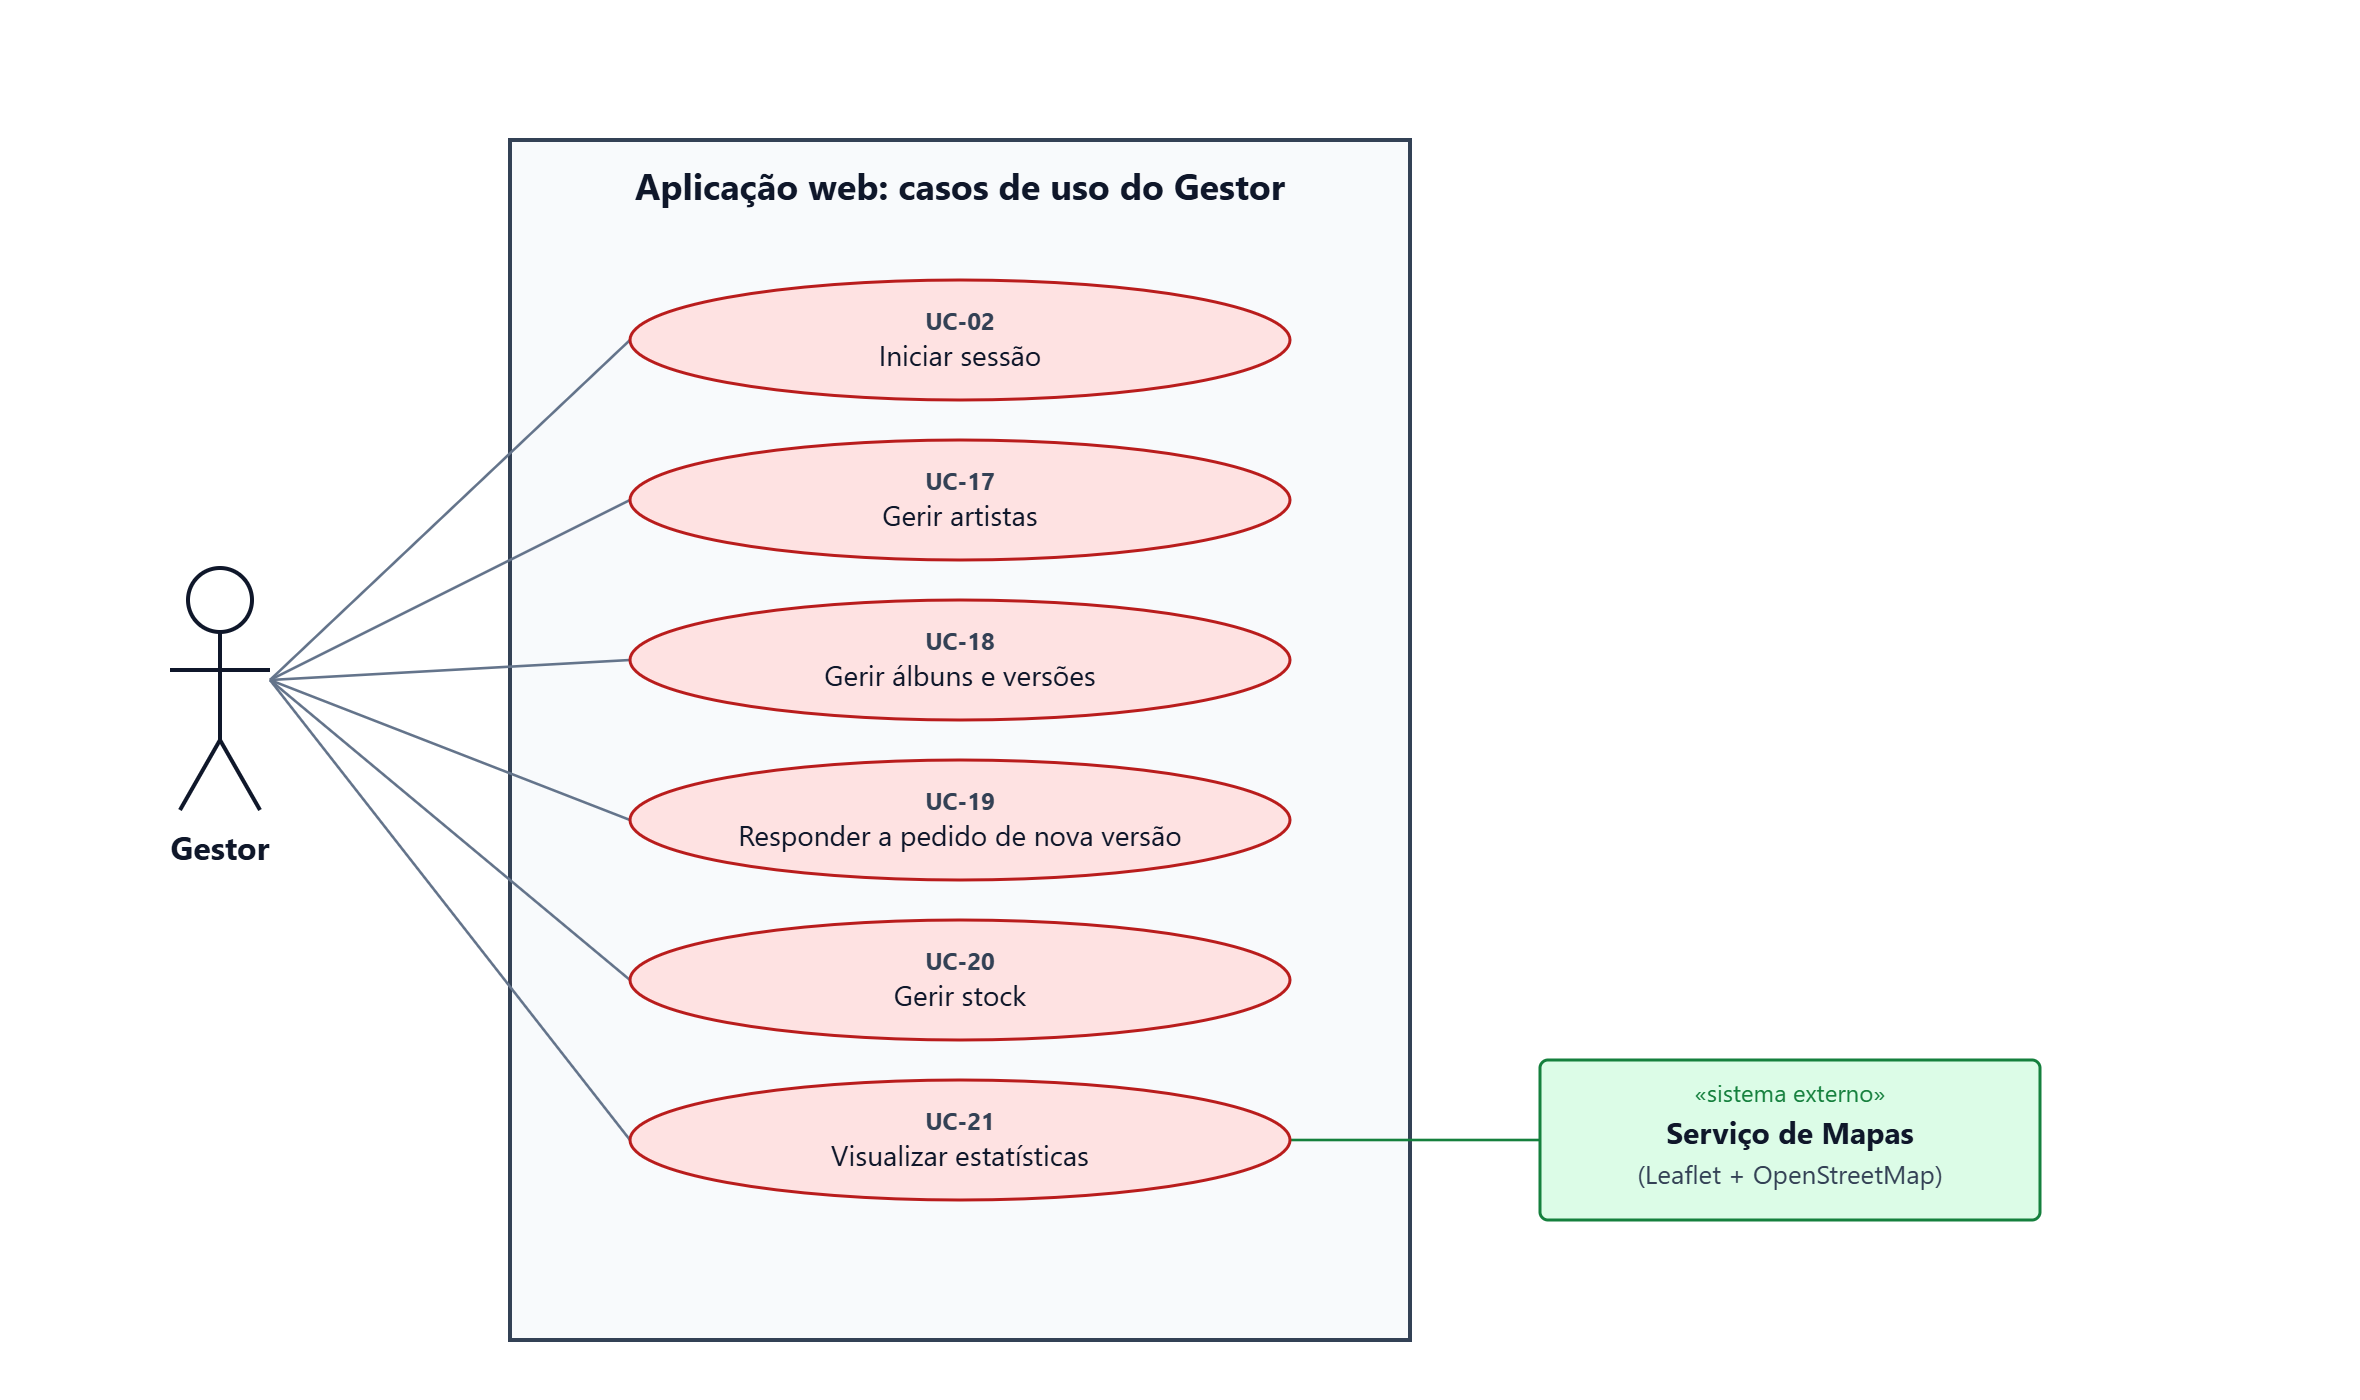
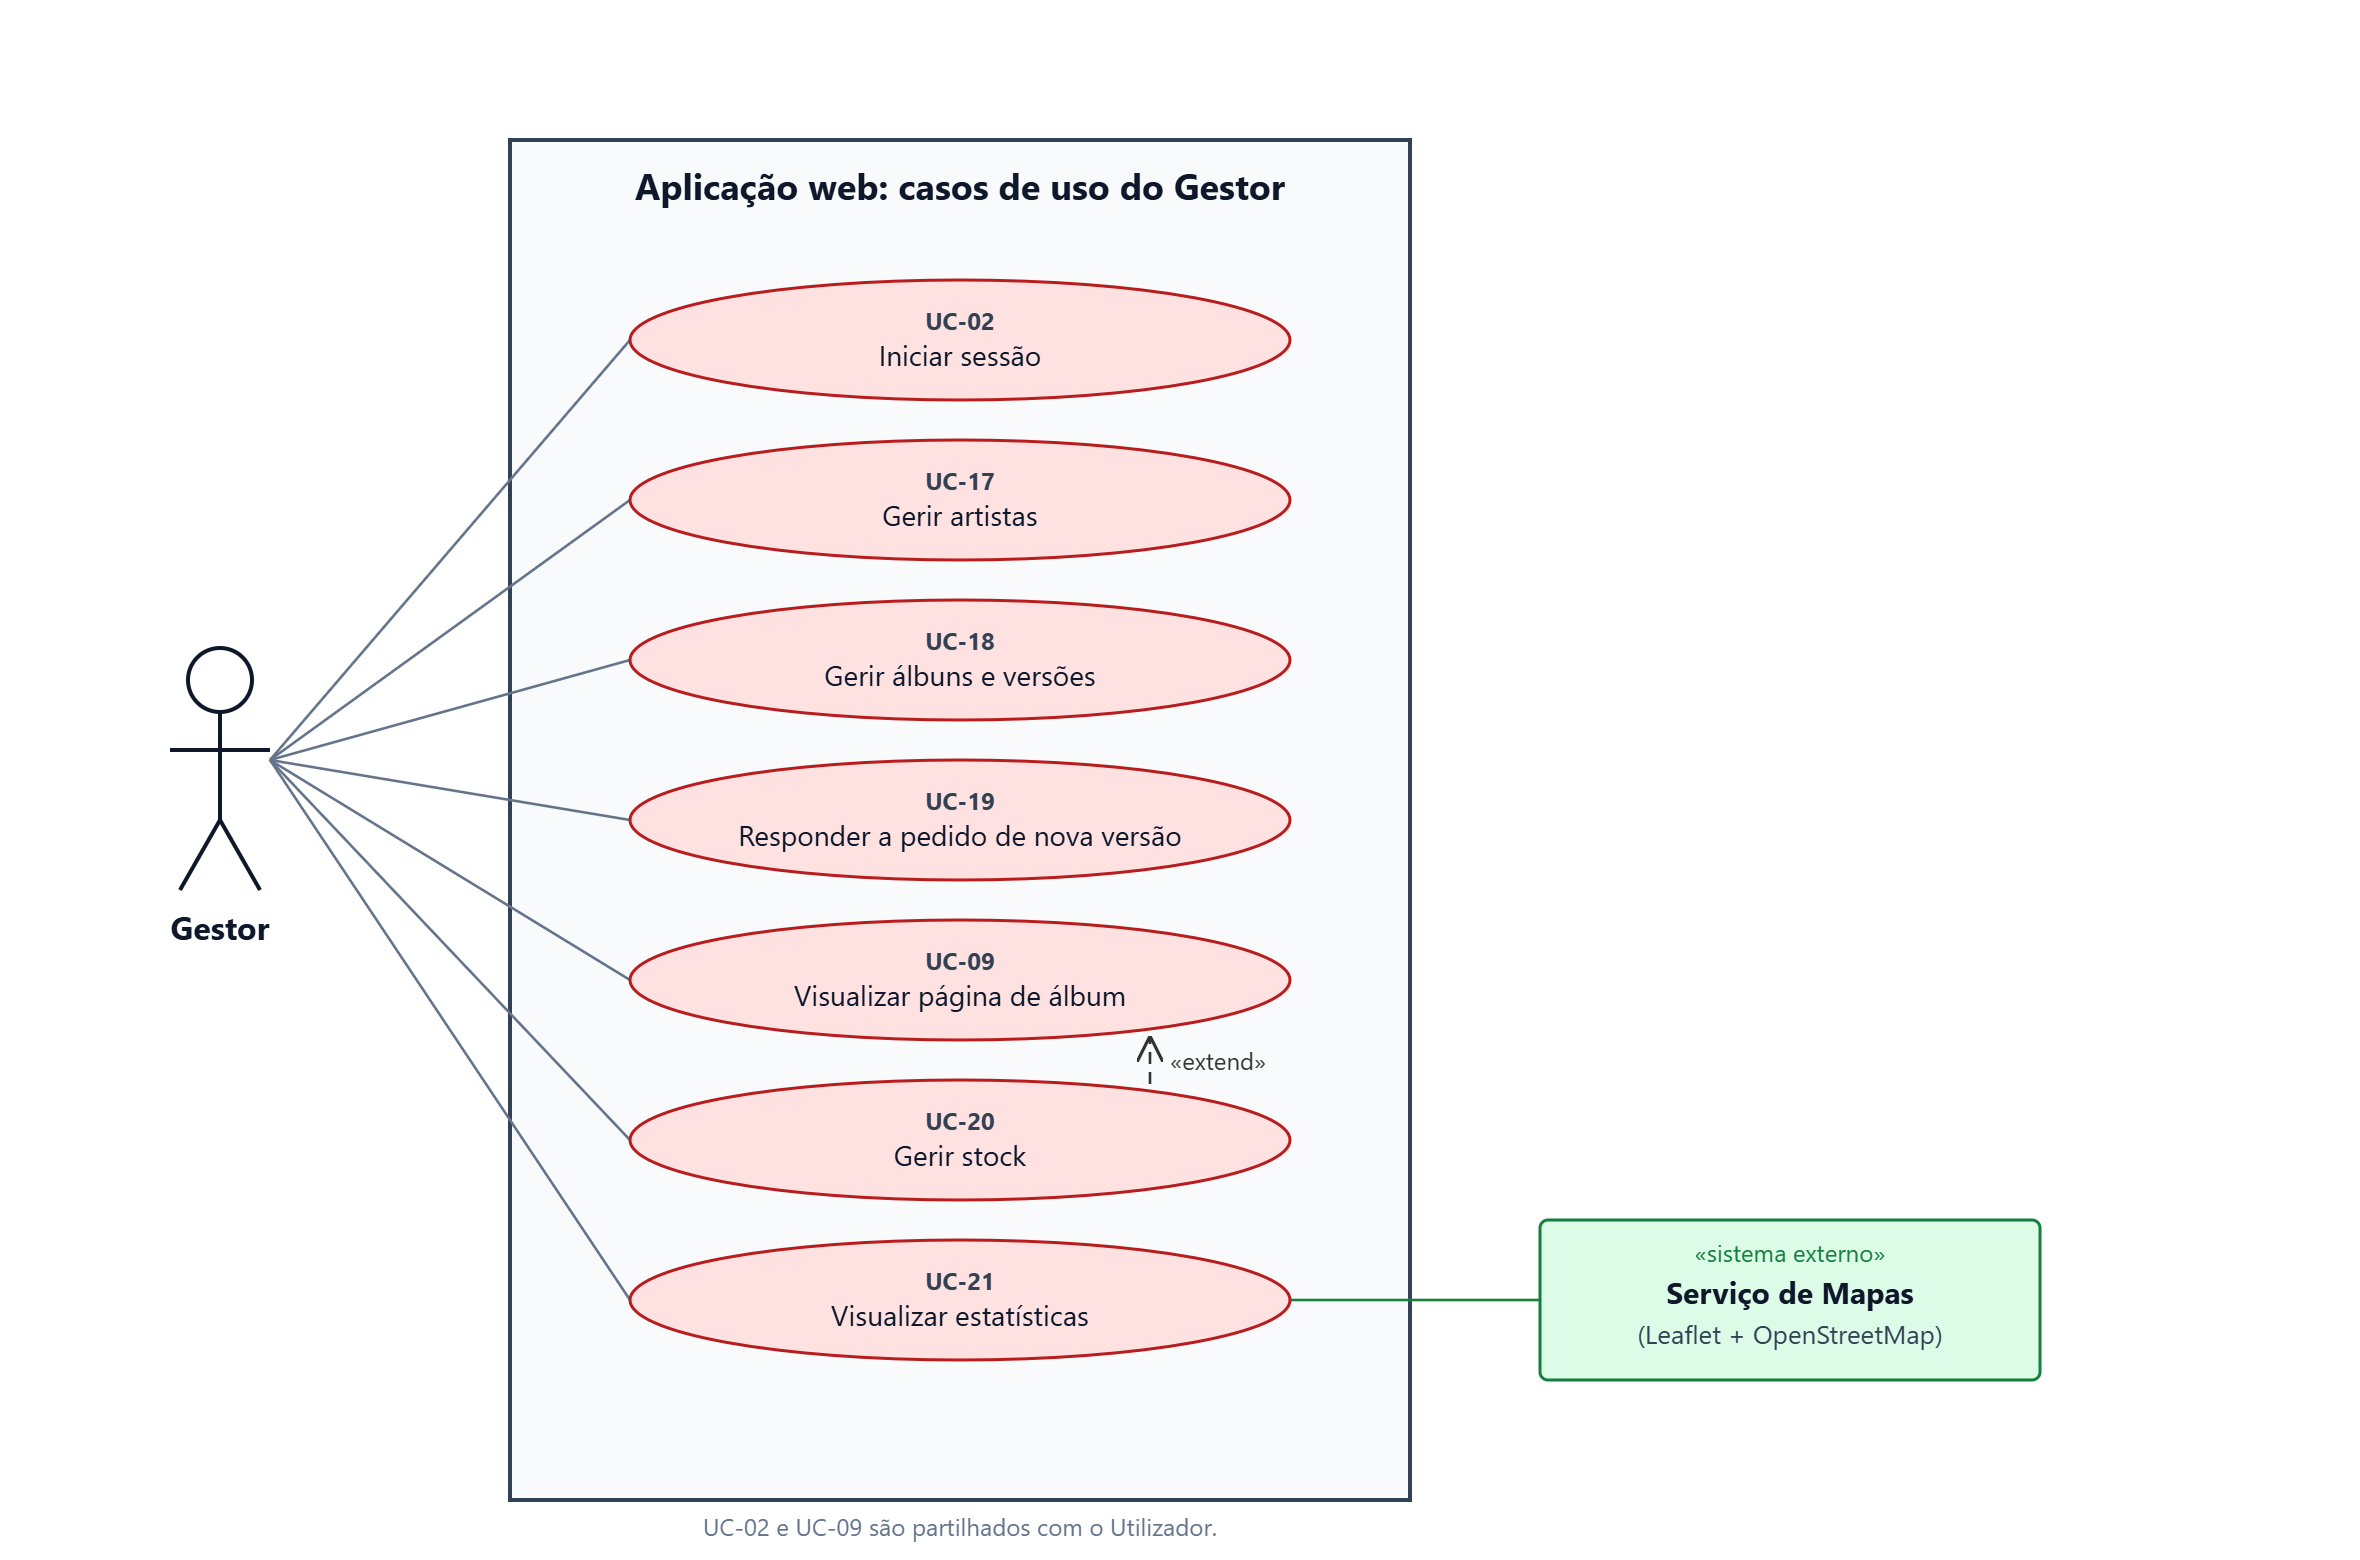
Bloco 4: Gestor ligado ao UC-09 e UC-20 «extend» UC-09
A US25 a) faz-se a partir da página do álbum. Atualiza o diagrama do Gestor
(fonte em etapa1/casos-uso/fonte/casos_uso.py), a Tabela 2 e o texto sobre
as relações entre casos de uso.

diff --git a/etapa1/casos-uso/fonte/casos_uso.py b/etapa1/casos-uso/fonte/casos_uso.py
@@ -1,0 +1,62 @@
+"""Fonte dos diagramas de casos de uso (UML). Gera ../img/casos-uso-utilizador.svg e casos-uso-gestor.svg.
+
+Uso:  python casos_uso.py
+"""
+import sys, html
+RX, RY, STEP, CX, TOP = 165, 30, 80, 480, 150
+def diagram(out, title, actor, ucs, systems, links, extend=None, color=("#dbeafe", "#1d4ed8"), note=None):
+    n = len(ucs)
+    H = TOP + n*STEP + 70
+    W = 1180
+    pos = {k: (CX, TOP + 20 + i*STEP) for i, (k, _) in enumerate(ucs)}
+    names = dict(ucs)
+    s = []; a = s.append
+    a(f'<svg xmlns="http://www.w3.org/2000/svg" width="{W}" height="{H}" viewBox="0 0 {W} {H}" font-family="Segoe UI, Arial, sans-serif">')
+    a('<defs><marker id="open" viewBox="0 0 10 10" refX="10" refY="5" markerWidth="10" markerHeight="10" orient="auto-start-reverse"><path d="M0,0 L10,5 L0,10" fill="none" stroke="#333" stroke-width="1.2"/></marker></defs>')
+    a(f'<rect width="{W}" height="{H}" fill="#fff"/>')
+    a(f'<rect x="{CX-RX-60}" y="70" width="{2*RX+120}" height="{H-100}" fill="#f8fafc" stroke="#334155" stroke-width="2"/>')
+    a(f'<text x="{CX}" y="100" text-anchor="middle" font-size="18" font-weight="bold" fill="#0f172a">{html.escape(title)}</text>')
+    ay = TOP + 20 + (n-1)*STEP/2
+    ax = 110
+    for k, _ in ucs:
+        cx, cy = pos[k]
+        a(f'<line x1="{ax+25}" y1="{ay-30}" x2="{cx-RX}" y2="{cy}" stroke="#64748b" stroke-width="1.3"/>')
+    sx = CX + RX + 60 + 190
+    for name, sub, targets in systems:
+        ys = [pos[t][1] for t in targets]
+        sy = sum(ys)/len(ys)
+        for t in targets:
+            cx, cy = pos[t]
+            a(f'<line x1="{sx-125}" y1="{sy}" x2="{cx+RX}" y2="{cy}" stroke="#15803d" stroke-width="1.3"/>')
+        a(f'<rect x="{sx-125}" y="{sy-40}" width="250" height="80" rx="4" fill="#dcfce7" stroke="#15803d" stroke-width="1.5"/>')
+        a(f'<text x="{sx}" y="{sy-19}" text-anchor="middle" font-size="12" fill="#15803d">«sistema externo»</text>')
+        a(f'<text x="{sx}" y="{sy+2}" text-anchor="middle" font-size="15" font-weight="bold" fill="#0f172a">{html.escape(name)}</text>')
+        a(f'<text x="{sx}" y="{sy+22}" text-anchor="middle" font-size="13" fill="#334155">{html.escape(sub)}</text>')
+    if extend:
+        f, t = extend
+        x1, y1 = pos[f]; x2, y2 = pos[t]
+        a(f'<line x1="{x1+95}" y1="{y1-RY+2}" x2="{x2+95}" y2="{y2+RY-2}" stroke="#333" stroke-width="1.3" stroke-dasharray="6,4" marker-end="url(#open)"/>')
+        a(f'<text x="{x1+105}" y="{(y1+y2)/2+5}" font-size="12" fill="#333">«extend»</text>')
+    for k, (cx, cy) in pos.items():
+        a(f'<ellipse cx="{cx}" cy="{cy}" rx="{RX}" ry="{RY}" fill="{color[0]}" stroke="{color[1]}" stroke-width="1.5"/>')
+        a(f'<text x="{cx}" y="{cy-5}" text-anchor="middle" font-size="12" font-weight="bold" fill="#334155">{k}</text>')
+        a(f'<text x="{cx}" y="{cy+13}" text-anchor="middle" font-size="14" fill="#0f172a">{html.escape(names[k])}</text>')
+    x, y = ax, ay
+    a(f'<circle cx="{x}" cy="{y-70}" r="16" fill="#fff" stroke="#0f172a" stroke-width="2"/>')
+    for l in [(x, y-54, x, y), (x-25, y-35, x+25, y-35), (x, y, x-20, y+35), (x, y, x+20, y+35)]:
+        a('<line x1="%s" y1="%s" x2="%s" y2="%s" stroke="#0f172a" stroke-width="2"/>' % l)
+    a(f'<text x="{x}" y="{y+60}" text-anchor="middle" font-size="16" font-weight="bold" fill="#0f172a">{actor}</text>')
+    if note:
+        a(f'<text x="{CX}" y="{H-12}" text-anchor="middle" font-size="12" fill="#64748b">{html.escape(note)}</text>')
+    a('</svg>')
+    open(out, "w", encoding="utf-8").write("\n".join(s))
+d = sys.argv[1] if len(sys.argv) > 1 else __import__("os").path.join(__import__("os").path.dirname(__import__("os").path.abspath(__file__)), "..", "img")
+diagram(d + "/casos-uso-utilizador.svg", "Aplicação web: casos de uso do Utilizador", "Utilizador",
+  [("UC-02","Iniciar sessão"),("UC-03","Aceder ao dashboard"),("UC-06","Pesquisar artistas e álbuns"),("UC-07","Visualizar página de artista"),("UC-08","Gerir artista favorito"),("UC-09","Visualizar página de álbum"),("UC-10","Gerir coleção"),("UC-11","Gerir listas personalizadas"),("UC-12","Gerir conteúdo de uma lista"),("UC-13","Submeter pedido de nova versão"),("UC-14","Consultar pedidos e notificações"),("UC-15","Gerir carrinho de compras"),("UC-16","Pagar carrinho"),("UC-04","Visualizar perfil"),("UC-05","Gerir perfil"),("UC-01","Criar conta")],
+  [("Serviço de Pagamentos","(Stripe / PayPal)",["UC-16"]),("Serviço de Mapas","(Leaflet + OpenStreetMap)",["UC-04"]),("Serviço de Geocodificação","(Nominatim)",["UC-05","UC-01"])],
+  None, extend=("UC-08","UC-07"), note="UC-02 e UC-09 são partilhados com o Gestor (ver diagrama do Gestor).")
+diagram(d + "/casos-uso-gestor.svg", "Aplicação web: casos de uso do Gestor", "Gestor",
+  [("UC-02","Iniciar sessão"),("UC-17","Gerir artistas"),("UC-18","Gerir álbuns e versões"),("UC-19","Responder a pedido de nova versão"),("UC-09","Visualizar página de álbum"),("UC-20","Gerir stock"),("UC-21","Visualizar estatísticas")],
+  [("Serviço de Mapas","(Leaflet + OpenStreetMap)",["UC-21"])],
+  None, extend=("UC-20","UC-09"), color=("#fee2e2","#b91c1c"), note="UC-02 e UC-09 são partilhados com o Utilizador.")
+print("ok")

diff --git a/etapa1/relatorio/relatorio.md b/etapa1/relatorio/relatorio.md
@@ -37,7 +37,7 @@ Há dois atores humanos, como define o enunciado, e três sistemas externos, esc
 
 As 29 user stories foram agrupadas em 21 casos de uso. User stories que atuam sobre os mesmos dados ficaram num só caso de uso: por exemplo, "Gerir coleção" junta adicionar uma versão à coleção (US10) e ver, ordenar e remover álbuns da coleção (US11).
 
-Com 21 casos de uso, um só diagrama ficava com muitas linhas cruzadas e difícil de ler. Por isso foram feitos dois diagramas, um por ator humano. O caso de uso "Iniciar sessão" (UC-02) é comum aos dois. A única relação entre casos de uso é **UC-08 «extend» UC-07**: gerir o artista favorito é uma opção dentro da página do artista (US7 a).
+Com 21 casos de uso, um só diagrama ficava com muitas linhas cruzadas e difícil de ler. Por isso foram feitos dois diagramas, um por ator humano. Os casos de uso "Iniciar sessão" (UC-02) e "Visualizar página de álbum" (UC-09) são comuns aos dois. Há duas relações entre casos de uso: **UC-08 «extend» UC-07**, porque gerir o artista favorito é uma opção dentro da página do artista (US7 a); e **UC-20 «extend» UC-09**, porque o gestor altera as unidades a partir da página do álbum (US25 a), por isso gerir o stock é uma extensão dessa página.
 
 ![Figura 1 — Casos de uso do Utilizador](../casos-uso/img/casos-uso-utilizador.png)
 
@@ -57,7 +57,7 @@ Com 21 casos de uso, um só diagrama ficava com muitas linhas cruzadas e difíci
 | UC-06 | Pesquisar artistas e álbuns | Utilizador | US5, US8 |
 | UC-07 | Visualizar página de artista | Utilizador | US6 |
 | UC-08 | Gerir artista favorito | Utilizador | US7 |
-| UC-09 | Visualizar página de álbum | Utilizador | US9 |
+| UC-09 | Visualizar página de álbum | Utilizador, Gestor | US9, US25 a) |
 | UC-10 | Gerir coleção | Utilizador | US10, US11 |
 | UC-11 | Gerir listas personalizadas | Utilizador | US15, US16 |
 | UC-12 | Gerir conteúdo de uma lista | Utilizador | US17, US18 |
@@ -68,7 +68,7 @@ Com 21 casos de uso, um só diagrama ficava com muitas linhas cruzadas e difíci
 | UC-17 | Gerir artistas | Gestor | US20, US21 |
 | UC-18 | Gerir álbuns e versões | Gestor | US22, US23 |
 | UC-19 | Responder a pedido de nova versão | Gestor | US24 |
-| UC-20 | Gerir stock | Gestor | US25 |
+| UC-20 | Gerir stock («extend» UC-09) | Gestor | US25 |
 | UC-21 | Visualizar estatísticas | Gestor, Serviço de Mapas | US29 |
 
 As 29 user stories do enunciado estão todas associadas a um caso de uso.

diff --git a/etapa1/casos-uso/casos-uso.md b/etapa1/casos-uso/casos-uso.md
@@ -2,7 +2,7 @@
 
 **Responsável:** Reis · Diagramas em [`img/`](img): [Utilizador](img/casos-uso-utilizador.png) e [Gestor](img/casos-uso-gestor.png)
 
-Com 21 casos de uso, um só diagrama ficava com linhas cruzadas e difícil de ler. Por isso há um diagrama por ator humano. O UC-02 (Iniciar sessão) aparece nos dois porque é partilhado.
+Com 21 casos de uso, um só diagrama ficava com linhas cruzadas e difícil de ler. Por isso há um diagrama por ator humano. O UC-02 (Iniciar sessão) e o UC-09 (Visualizar página de álbum) aparecem nos dois porque são partilhados.
 
 ## 1. Atores
 
@@ -26,7 +26,7 @@ Com 21 casos de uso, um só diagrama ficava com linhas cruzadas e difícil de le
 | UC-06 | Pesquisar artistas e álbuns | Utilizador | US5, US8 |
 | UC-07 | Visualizar página de artista | Utilizador | US6 |
 | UC-08 | Gerir artista favorito (estende UC-07) | Utilizador | US7 |
-| UC-09 | Visualizar página de álbum | Utilizador | US9 |
+| UC-09 | Visualizar página de álbum | Utilizador, Gestor | US9, US25 a) |
 | UC-10 | Gerir coleção (adicionar, ver, ordenar e remover versões) | Utilizador | US10, US11 |
 | UC-11 | Gerir listas personalizadas (criar, ver, ordenar e remover) | Utilizador | US15, US16 |
 | UC-12 | Gerir conteúdo de uma lista (adicionar, ver e remover álbuns) | Utilizador | US17, US18 |
@@ -37,7 +37,7 @@ Com 21 casos de uso, um só diagrama ficava com linhas cruzadas e difícil de le
 | UC-17 | Gerir artistas (registar e alterar) | Gestor | US20, US21 |
 | UC-18 | Gerir álbuns e versões (registar e alterar) | Gestor | US22, US23 |
 | UC-19 | Responder a pedido de nova versão | Gestor | US24 |
-| UC-20 | Gerir stock | Gestor | US25 |
+| UC-20 | Gerir stock («extend» UC-09) | Gestor | US25 |
 | UC-21 | Visualizar estatísticas | Gestor, Serviço de Mapas | US29 |
 
 As user stories parecidas foram agrupadas num só caso de uso quando atuam sobre os mesmos dados (por exemplo, criar, ver e remover listas), para o diagrama ficar legível.
@@ -64,3 +64,4 @@ Confirma que as 29 user stories estão cobertas.
 ## 4. Relações entre casos de uso
 
 - **UC-08 «extend» UC-07:** adicionar ou remover um artista dos favoritos é uma opção dentro da página do artista (US7 a).
+- **UC-20 «extend» UC-09:** o gestor altera as unidades a partir da página do álbum (US25 a), por isso gerir o stock é uma extensão dessa página.

diff --git a/etapa1/casos-uso/seccao-relatorio.md b/etapa1/casos-uso/seccao-relatorio.md
@@ -21,11 +21,11 @@ As 29 user stories foram agrupadas em 21 casos de uso. User stories que atuam so
 
 Com 21 casos de uso, um só diagrama ficava com muitas linhas cruzadas. Por isso foram feitos dois diagramas, um por ator humano:
 - **Figura 1:** casos de uso do Utilizador (16 casos de uso).
-- **Figura 2:** casos de uso do Gestor (6 casos de uso).
+- **Figura 2:** casos de uso do Gestor (7 casos de uso).
 
-O caso de uso "Iniciar sessão" (UC-02) é comum aos dois atores.
+Os casos de uso "Iniciar sessão" (UC-02) e "Visualizar página de álbum" (UC-09) são comuns aos dois atores.
 
-A única relação entre casos de uso é **UC-08 «extend» UC-07**: gerir o artista favorito é uma opção que aparece dentro da página do artista (US7 a).
+Há duas relações entre casos de uso: **UC-08 «extend» UC-07**, porque gerir o artista favorito é uma opção dentro da página do artista (US7 a); e **UC-20 «extend» UC-09**, porque o gestor altera as unidades a partir da página do álbum (US25 a), por isso gerir o stock é uma extensão dessa página.
 
 ## Rastreabilidade
 
